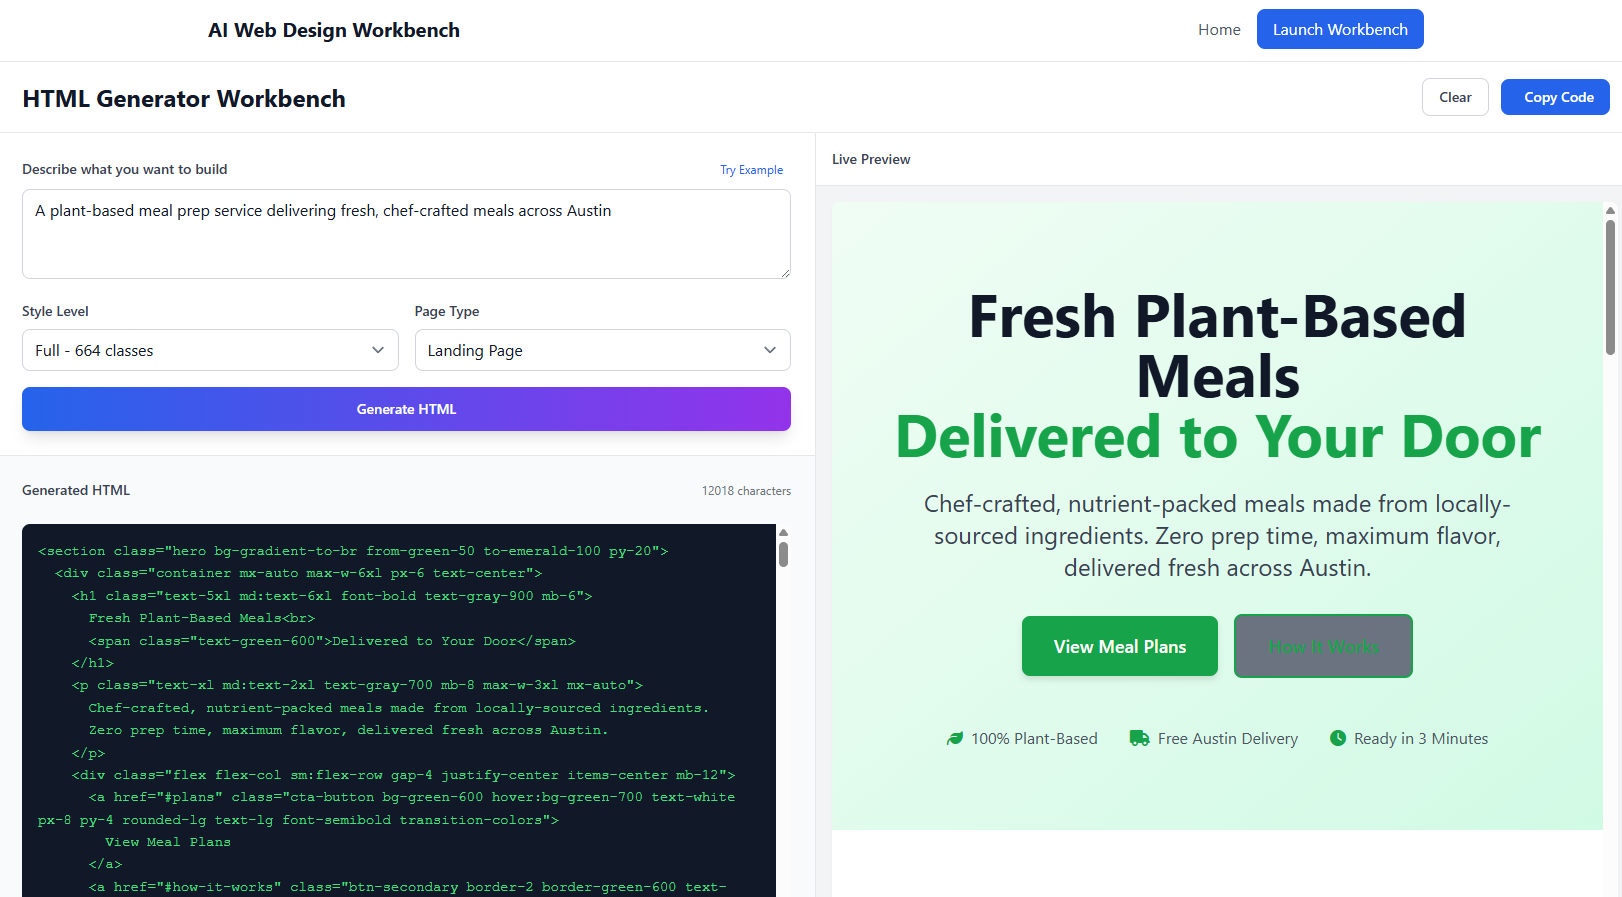
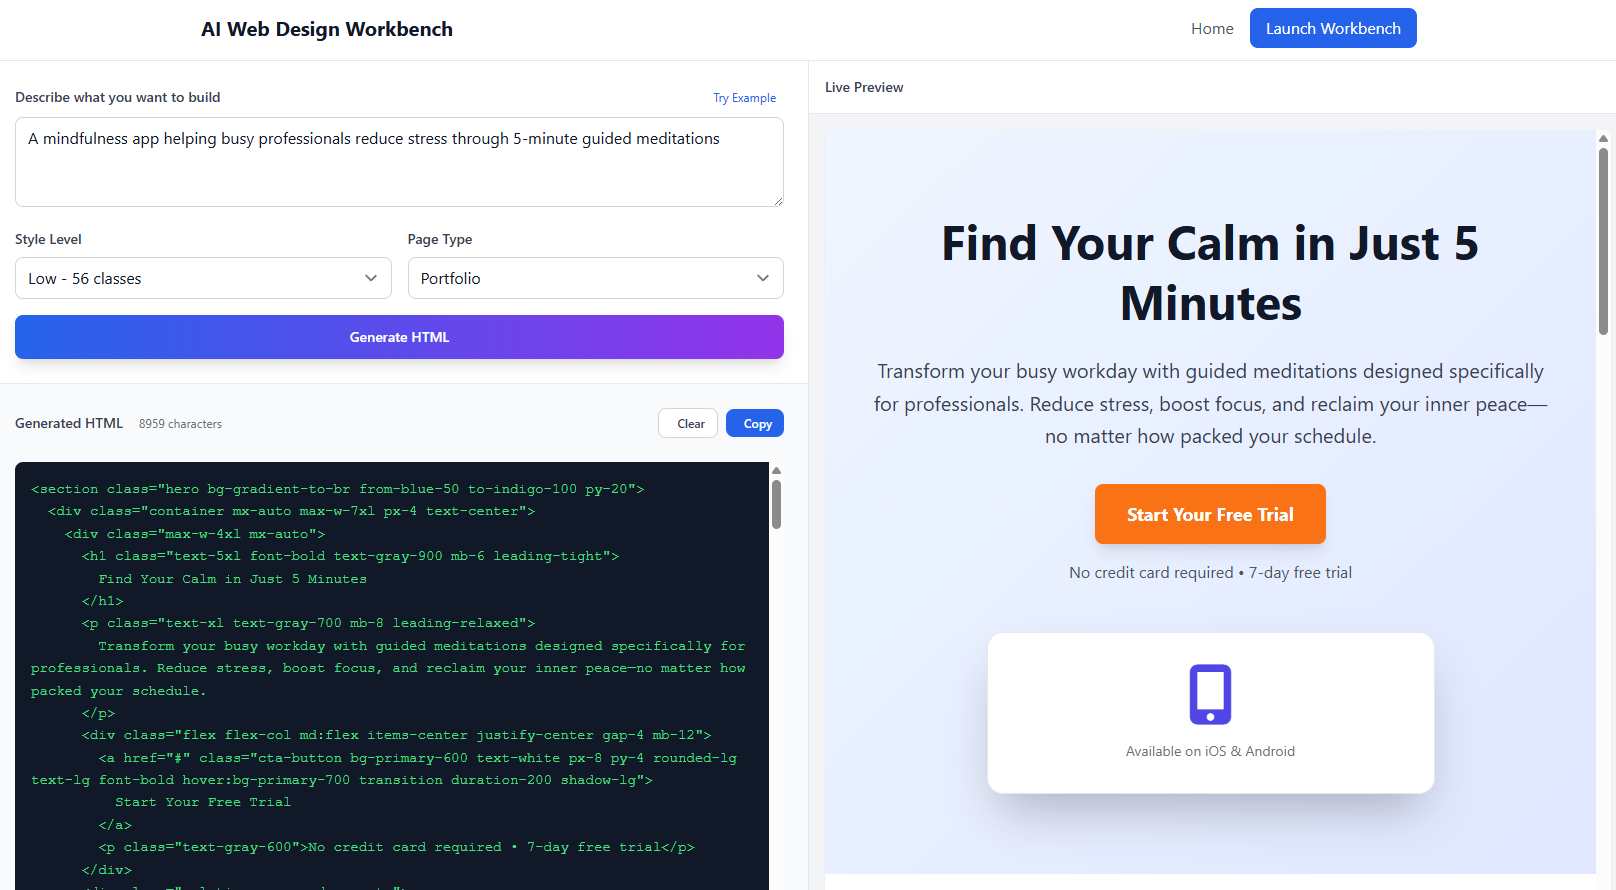
layout tweak

diff --git a/resources/views/livewire/generator-workbench.blade.php b/resources/views/livewire/generator-workbench.blade.php
@@ -1,26 +1,5 @@
 <div class="min-h-screen bg-gray-50">
     <div class="h-screen flex flex-col">
-        <!-- Header -->
-        <div class="bg-white border-b border-gray-200 px-6 py-4 flex-shrink-0">
-            <div class="flex items-center justify-between">
-                <h1 class="text-2xl font-bold text-gray-900">HTML Generator Workbench</h1>
-                <div class="flex items-center gap-3">
-                    @if($generatedHtml)
-                        <button 
-                            wire:click="clear" 
-                            class="px-4 py-2 text-sm font-medium text-gray-700 bg-white border border-gray-300 rounded-lg hover:bg-gray-50 transition">
-                            Clear
-                        </button>
-                        <button 
-                            onclick="copyToClipboard()" 
-                            class="px-4 py-2 text-sm font-medium text-white bg-blue-600 rounded-lg hover:bg-blue-700 transition">
-                            <i class="fas fa-copy mr-2"></i>Copy Code
-                        </button>
-                    @endif
-                </div>
-            </div>
-        </div>
-
         <!-- Main Content -->
         <div class="flex-1 flex overflow-hidden">
             <!-- Left Panel - Controls & Editor -->
@@ -157,8 +136,22 @@
                     @if($generatedHtml)
                         <div class="p-6 pb-3">
                             <div class="flex items-center justify-between mb-3">
-                                <h3 class="text-sm font-semibold text-gray-700">Generated HTML</h3>
-                                <span class="text-xs text-gray-500">{{ strlen($generatedHtml) }} characters</span>
+                                <div class="flex items-center gap-4">
+                                    <h3 class="text-sm font-semibold text-gray-700">Generated HTML</h3>
+                                    <span class="text-xs text-gray-500">{{ strlen($generatedHtml) }} characters</span>
+                                </div>
+                                <div class="flex items-center gap-2">
+                                    <button 
+                                        wire:click="clear" 
+                                        class="px-3 py-1.5 text-xs font-medium text-gray-700 bg-white border border-gray-300 rounded-lg hover:bg-gray-50 transition">
+                                        <i class="fas fa-trash-alt mr-1.5"></i>Clear
+                                    </button>
+                                    <button 
+                                        onclick="copyToClipboard()" 
+                                        class="px-3 py-1.5 text-xs font-medium text-white bg-blue-600 rounded-lg hover:bg-blue-700 transition">
+                                        <i class="fas fa-copy mr-1.5"></i>Copy
+                                    </button>
+                                </div>
                             </div>
                         </div>
                         <div class="flex-1 px-6 pb-6 overflow-hidden">
